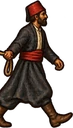
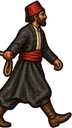
Map figure: both walking steps cut with one crop box (no sideways jitter), slower step with a 1px lift
Claude-Session: https://claude.ai/code/session_01RsyrrUsDDaKTV5xQN8SsoM

diff --git a/src/styles.css b/src/styles.css
@@ -597,10 +597,11 @@ table.ledger .neg { color: var(--bad); }
 .me-walk img { position: absolute; inset: 0; width: 100%; height: 100%; object-fit: contain; }
 .me-walk img + img { opacity: 0; }
 .me[data-facing="left"] .me-walk { transform: scaleX(-1); }
-.me.moving .me-walk img { animation: walk-a 0.5s steps(1) infinite; }
+/* two painted steps, 0.36 s each; the second rides a pixel higher so the pair reads as a stride, not a flicker */
+.me.moving .me-walk img { animation: walk-a 0.72s steps(1) infinite; }
 .me.moving .me-walk img + img { animation-name: walk-b; }
 @keyframes walk-a { 0% { opacity: 1; } 50% { opacity: 0; } }
-@keyframes walk-b { 0% { opacity: 0; } 50% { opacity: 1; } }
+@keyframes walk-b { 0% { opacity: 0; transform: translateY(0); } 50% { opacity: 1; transform: translateY(-1px); } }
 @media (prefers-reduced-motion: reduce) { .me.moving .me-walk img { animation: none; } }
 @keyframes bob { 50% { transform: translateY(-3px); } }
 .me-flag { position: absolute; bottom: -7px; left: 50%; width: 2px; height: 7px; background: #fff1d6; }

diff --git a/tools/travel_art.py b/tools/travel_art.py
@@ -53,23 +53,32 @@ fit(SRC / '03-rug-bale.png', (512, 512), PUB / 'battle/bale.webp')
 (PUB / 'travel-threats').mkdir(exist_ok=True)
 Image.open(SRC / '04-robber-leader.png').convert('RGB').resize((640, 640), Image.LANCZOS).save(PUB / 'travel-threats/egypt-rural-highway-robbers-leader.jpg', quality=86)
 
-# the party on the map: two walking frames, split at the empty column between them, trimmed, 128 px tall
-m = Image.open(SRC / '05-map-marker.png').convert('RGBA'); a = np.array(m)[..., 3] > 10
-cols = a.any(axis=0); mid = m.width // 2
-gap = min(range(mid - 300, mid + 300), key=lambda x: (cols[x], abs(x - mid)))
-for i, (l, r) in enumerate([(0, gap), (gap, m.width)], 1):
-    f = m.crop((l, 0, r, m.height)); f = f.crop(bbox(f))
-    h = 128; f = f.resize((round(f.width * h / f.height), h), Image.LANCZOS)
+# the party on the map: two walking frames side by side. Both are cut with ONE crop box (the union of
+# the two outlines, in each half's own coordinates) so the figure stays put between steps instead of
+# jittering by the difference between two separately trimmed frames. 128 px tall = 2x the map size.
+m = Image.open(SRC / '05-map-marker.png').convert('RGBA')
+halves = [m.crop((0, 0, m.width // 2, m.height)), m.crop((m.width // 2, 0, m.width // 2 * 2, m.height))]
+boxes = [bbox(hf) for hf in halves]
+union = (min(b[0] for b in boxes), min(b[1] for b in boxes), max(b[2] for b in boxes), max(b[3] for b in boxes))
+h = 128
+for i, hf in enumerate(halves, 1):
+    f = hf.crop(union); f = f.resize((round(f.width * h / f.height), h), Image.LANCZOS)
     f.save(PUB / f'world/party-walk-{i}.webp', 'WEBP', quality=90, method=6)
-    # the merchant alone, for a party with no camel yet: cut just past the camel's nose (the
-    # rightmost opaque column at nose height, left of the man's fez), keeping him and the rope's end
-    half = m.crop((l, 0, r, m.height)); ha = np.array(half)[..., 3] > 10
-    band = ha[int(half.height * 0.26):int(half.height * 0.30), :int(half.width * 0.76)]
-    nose = np.nonzero(band.any(axis=0))[0].max()
-    solo = half.crop((nose + 12, 0, half.width, half.height)); solo = solo.crop(bbox(solo))
-    solo = solo.resize((round(solo.width * h / solo.height), h), Image.LANCZOS)
-    solo.save(PUB / f'world/party-solo-{i}.webp', 'WEBP', quality=90, method=6)
-    print('marker frame', i, f.size, 'solo', solo.size)
+# the merchant alone, for a party with no camel yet: cut just past the camel's nose (the rightmost
+# opaque column at nose height, left of the man's fez), the same column in both frames
+def nose(hf):
+    ha = np.array(hf)[..., 3] > 10
+    band = ha[int(hf.height * 0.26):int(hf.height * 0.30), :int(hf.width * 0.76)]
+    return np.nonzero(band.any(axis=0))[0].max()
+cut = max(nose(hf) for hf in halves) + 12
+solos = [hf.crop((cut, 0, hf.width, hf.height)) for hf in halves]
+sb = [bbox(x) for x in solos]
+su = (min(b[0] for b in sb), min(b[1] for b in sb), max(b[2] for b in sb), max(b[3] for b in sb))
+for i, x in enumerate(solos, 1):
+    x = x.crop(su); x = x.resize((round(x.width * h / x.height), h), Image.LANCZOS)
+    x.save(PUB / f'world/party-solo-{i}.webp', 'WEBP', quality=90, method=6)
+print('marker frames', Image.open(PUB / 'world/party-walk-1.webp').size, Image.open(PUB / 'world/party-walk-2.webp').size,
+      'solo', Image.open(PUB / 'world/party-solo-1.webp').size, Image.open(PUB / 'world/party-solo-2.webp').size)
 
 # the camp, lit and cold, for the night-halt card
 (PUB / 'events').mkdir(exist_ok=True)
